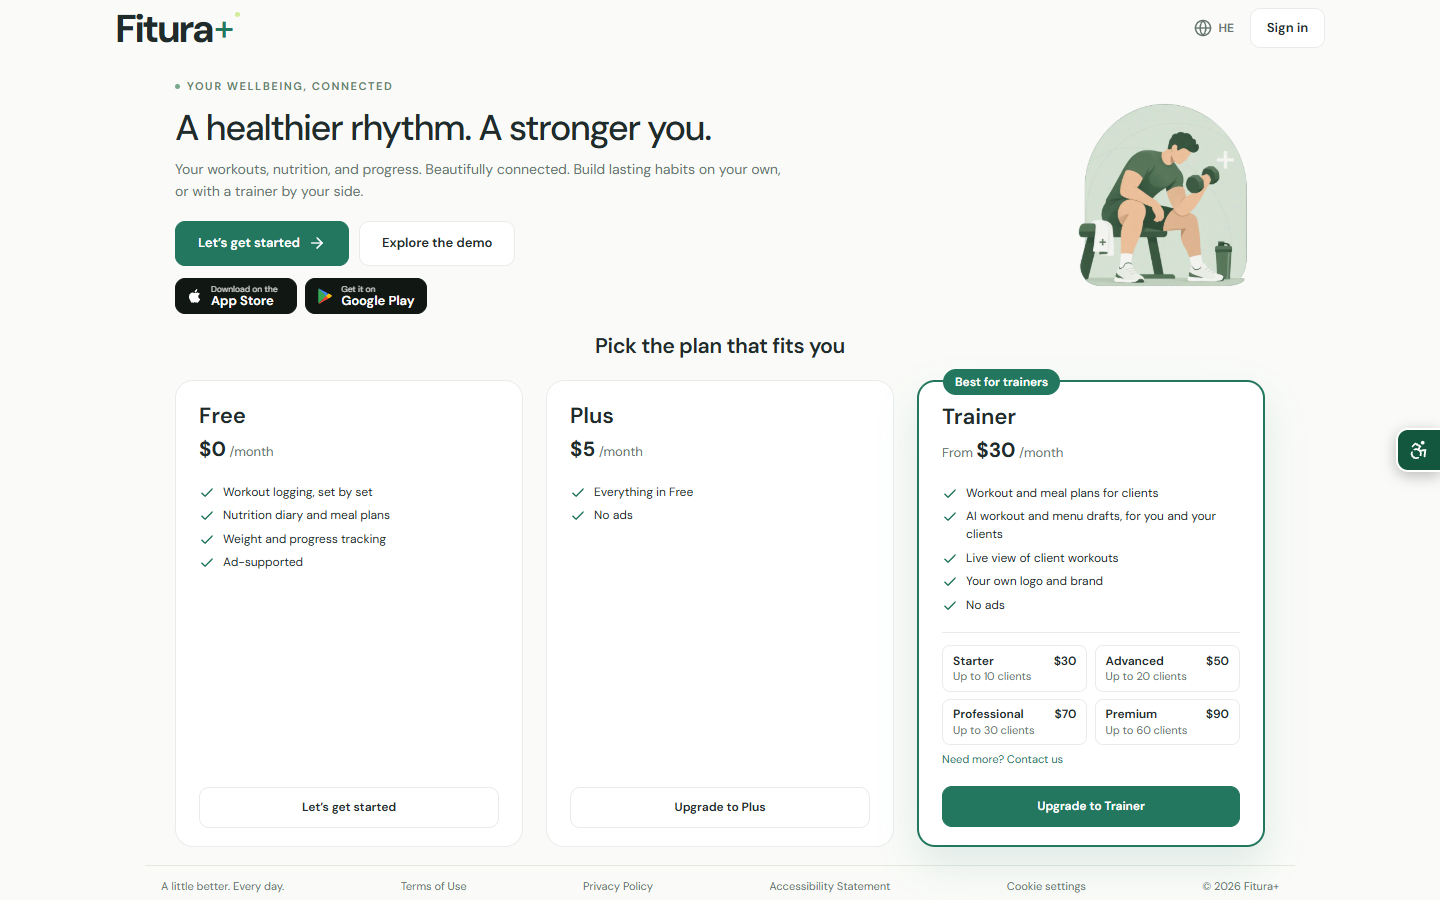
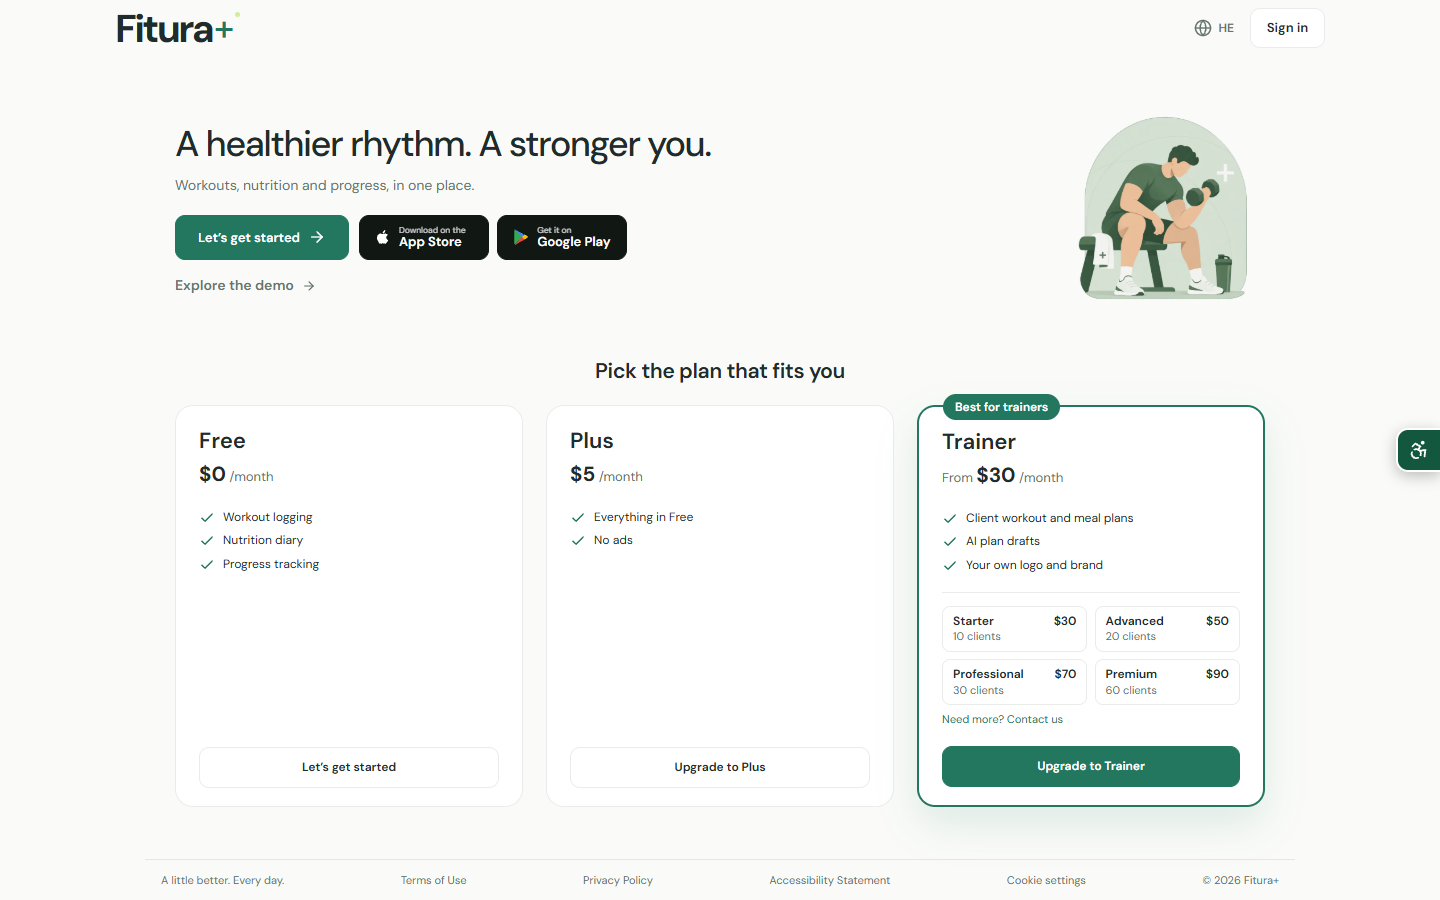
feat: calmer home page and drag-off-edge to hide the accessibility button
- Shorter hero subtitle, no eyebrow badge; main CTA and store badges share one row, demo is a quiet link
- Fewer, shorter plan bullets and coach package labels
- Dragging the accessibility button past the screen edge tucks it into the slim tab

diff --git a/src/lib/i18n.ts b/src/lib/i18n.ts
@@ -1295,8 +1295,8 @@ export const messages = {
   preview: ['Preview', 'תצוגה מקדימה'],
   landingTitle: ['A healthier rhythm.\nA stronger you.', 'קצב בריא יותר.\nאתה, חזק יותר.'],
   landingSub: [
-    'Your workouts, nutrition, and progress. Beautifully connected. Build lasting habits on your own, or with a trainer by your side.',
-    'האימונים, התזונה וההתקדמות שלך. הכול מתחבר. בנו הרגלים שנשארים, באופן עצמאי או עם מאמן לצידכם.',
+    'Workouts, nutrition and progress, in one place.',
+    'אימונים, תזונה והתקדמות, במקום אחד.',
   ],
   login: ['Sign in', 'כניסה'],
   register: ['Create account', 'יצירת חשבון'],
@@ -1315,27 +1315,24 @@ export const messages = {
   coachAdvanced: ['Advanced', 'מתקדם'],
   coachProfessional: ['Professional', 'מקצועי'],
   coachPremium: ['Premium', 'פרימיום'],
-  coachPackageCapacity: ['Up to {count} clients', 'עד {count} לקוחות'],
+  coachPackageCapacity: ['{count} clients', '{count} לקוחות'],
   fromPrice: ['From', 'החל מ־'],
-  coachCustomPackage: ['Need more? Contact us', 'צריכים יותר מזה? צרו איתנו קשר'],
+  coachCustomPackage: ['Need more? Contact us', 'צריכים יותר? דברו איתנו'],
   comingSoon: ['Coming soon', 'בקרוב'],
-  planFree1: ['Workout logging, set by set', 'תיעוד אימונים, סט אחרי סט'],
-  planFree2: ['Nutrition diary and meal plans', 'יומן תזונה ותפריטים'],
-  planFree3: ['Weight and progress tracking', 'מעקב משקל והתקדמות'],
+  planFree1: ['Workout logging', 'תיעוד אימונים'],
+  planFree2: ['Nutrition diary', 'יומן תזונה'],
+  planFree3: ['Progress tracking', 'מעקב התקדמות'],
   planFree4: ['Ad-supported', 'כולל פרסומות'],
   planAiCoached: [
     'AI planning when your trainer is on the Trainer plan',
     'תכנון AI כשהמאמן שלכם במסלול המאמנים',
   ],
-  planPremium1: ['Everything in Free', 'כל מה שבמסלול החינמי'],
+  planPremium1: ['Everything in Free', 'כל מה שבחינם'],
   planPremium2: ['No ads', 'בלי פרסומות'],
   planCoach1: ['Up to 10 clients', 'עד 10 מתאמנים'],
-  planCoach5: [
-    'AI workout and menu drafts, for you and your clients',
-    'טיוטות AI לאימונים ותפריטים, לכם ולמתאמנים',
-  ],
+  planCoach5: ['AI plan drafts', 'טיוטות AI'],
   planCoach6: ['No ads', 'בלי פרסומות'],
-  planCoach2: ['Workout and meal plans for clients', 'תוכניות אימון ותזונה למתאמנים'],
+  planCoach2: ['Client workout and meal plans', 'תוכניות אימון ותזונה'],
   planCoach3: ['Live view of client workouts', 'מעקב חי אחרי האימונים של המתאמנים'],
   planCoach4: ['Your own logo and brand', 'לוגו ומיתוג אישי'],
   password: ['Password', 'סיסמה'],
@@ -1371,7 +1368,6 @@ export const messages = {
   coach: ['I’m a trainer', 'אני מאמן/ת'],
   role: ['How will you use Fitura+?', 'איך תשתמשו ב־Fitura+\u200E\u200E?'],
   backHome: ['Back to home', 'חזרה לבית'],
-  landingBadge: ['YOUR WELLBEING, CONNECTED', 'הבריאות שלך, מחוברת'],
   featureWorkouts: ['Movement with intention', 'תנועה עם כוונה'],
   featureNutrition: ['Nutrition with balance', 'תזונה עם איזון'],
   featureProgress: ['Progress with perspective', 'התקדמות עם פרספקטיבה'],

diff --git a/src/components/public-page-client.tsx b/src/components/public-page-client.tsx
@@ -116,7 +116,7 @@ export function PublicPageClient({
     {
       key: 'free',
       price: 0,
-      points: ['planFree1', 'planFree2', 'planFree3', 'planFree4'],
+      points: ['planFree1', 'planFree2', 'planFree3'],
       cta: 'getStarted',
       href: '/auth',
       featured: false,
@@ -132,7 +132,7 @@ export function PublicPageClient({
     {
       key: 'coachTier',
       price: PLAN_PRICE_USD.COACH,
-      points: ['planCoach2', 'planCoach5', 'planCoach3', 'planCoach4', 'planCoach6'],
+      points: ['planCoach2', 'planCoach5', 'planCoach4'],
       cta: 'upgradeCoach',
       href: '/auth/coach/login?next=/app/billing',
       featured: true,
@@ -381,10 +381,6 @@ export function PublicPageClient({
         <main className="landing-overview">
           <section className="landing-hero">
             <div>
-              <span className="eyebrow">
-                <span className="live-dot" />
-                {t('landingBadge')}
-              </span>
               <h1>{t('landingTitle')}</h1>
               <p>{t('landingSub')}</p>
               <div className="hero-actions">
@@ -393,13 +389,6 @@ export function PublicPageClient({
                     {t('getStarted')}
                     <ArrowRight size={18} />
                   </a>
-                  <button
-                    className="button secondary large"
-                    onClick={demo}
-                    disabled={!ready || busy}
-                  >
-                    {busy ? <Loader2 className="spin" size={18} /> : t('tryDemo')}
-                  </button>
                 </div>
                 {storeLinks.length > 0 && (
                   <div className="store-links">
@@ -450,6 +439,14 @@ export function PublicPageClient({
                   </div>
                 )}
               </div>
+              <button
+                className="text-button hero-demo"
+                onClick={demo}
+                disabled={!ready || busy}
+              >
+                {busy ? <Loader2 className="spin" size={16} /> : t('tryDemo')}
+                {!busy && <ArrowRight size={14} aria-hidden="true" />}
+              </button>
               {error && (
                 <p className="form-error" role="alert">
                   {t(error)}

diff --git a/src/components/accessibility-menu.tsx b/src/components/accessibility-menu.tsx
@@ -38,6 +38,8 @@ import {
 
 /** Pointer travel (px) before a press on the button counts as a drag instead of a click. */
 const DRAG_THRESHOLD = 6;
+/** Dragging the pointer to within this many px of the left or right edge (or past it) tucks the button away. */
+const TUCK_EDGE = 12;
 
 type ToggleKey = 'contrast' | 'links' | 'font' | 'motion' | 'grayscale';
 const toggles: readonly [ToggleKey, string, LucideIcon][] = [
@@ -172,7 +174,8 @@ export function AccessibilityMenu() {
     e.currentTarget.querySelectorAll<HTMLElement>('[role="radio"]')[next]?.focus();
   };
   const StatementArrow = lang === 'he' ? ChevronLeft : ChevronRight;
-  // Drag the button up and down either edge; letting go on the other half switches sides.
+  // Drag the button up and down either edge; letting go on the other half switches sides,
+  // and dragging it out past the edge tucks it away.
   const onPointerDown = (e: ReactPointerEvent<HTMLButtonElement>) => {
     if (e.button !== 0) return;
     suppressClick.current = false;
@@ -188,10 +191,13 @@ export function AccessibilityMenu() {
       d.moved = true;
       setOpen(false);
     }
+    // Pushing it off the side previews the slim tab; pulling it back in restores the button.
+    const offEdge = e.clientX <= TUCK_EDGE || e.clientX >= window.innerWidth - TUCK_EDGE;
     setButton((b) => ({
       ...b,
       side: e.clientX < window.innerWidth / 2 ? 'left' : 'right',
       y: Math.max(0, Math.min(1, e.clientY / window.innerHeight)),
+      hidden: offEdge,
     }));
   };
   const onPointerEnd = (e: ReactPointerEvent<HTMLButtonElement>) => {

diff --git a/src/app/design-system.css b/src/app/design-system.css
@@ -1003,6 +1003,14 @@ html[data-theme='dark'] .food-icon {
   padding-inline-start: 0;
   border-inline-start: 0;
 }
+.landing-overview .hero-demo {
+  margin-top: 10px;
+  font-size: 14px;
+  color: var(--muted);
+}
+.landing-overview .hero-demo:hover:not(:disabled) {
+  color: var(--green);
+}
 .public-site > footer .text-button {
   font-size: inherit;
   font-weight: inherit;
@@ -1077,15 +1085,19 @@ html[data-theme='dark'] .food-icon {
     max-width: 620px;
     margin-bottom: clamp(12px, 2vh, 28px);
   }
-  /* CTAs on one line, store badges quietly on the next. */
+  /* Main CTA and store badges share one row at the same height; the demo is a quiet link below. */
   .landing-overview .hero-actions {
-    flex-direction: column;
-    align-items: flex-start;
-    gap: clamp(10px, 1.4vh, 18px);
+    flex-direction: row;
+    align-items: stretch;
+    gap: 10px;
   }
   .landing-overview .hero-actions .store-links {
     padding-inline-start: 0;
     border-inline-start: 0;
+  }
+  .landing-overview .hero-actions .store-link {
+    min-height: clamp(38px, 5vh, 48px);
+    padding-inline: 14px 16px;
   }
   .landing-overview .landing-hero .button.large {
     min-height: clamp(38px, 5vh, 48px);

diff --git a/README.md b/README.md
@@ -142,7 +142,7 @@ Register a **Trainer** account (or sign in as `coach@nutri.local`):
 
 ### Language, theme and accessibility
 
-Use the globe button for **English / עברית** (the whole layout flips to RTL) and the moon button for dark mode. Both are saved to your account. The accessibility button on the side of every page has switches for text zoom, high contrast, highlighted links, a readable font, reduced motion and grayscale. Drag the button up or down either edge of the screen (or press Alt + arrow keys while it has focus) to move it, and use **Hide button** in the menu to tuck it into a slim tab on the edge; press the tab to bring it back. Its position is remembered in your browser.
+Use the globe button for **English / עברית** (the whole layout flips to RTL) and the moon button for dark mode. Both are saved to your account. The accessibility button on the side of every page has switches for text zoom, high contrast, highlighted links, a readable font, reduced motion and grayscale. Drag the button up or down either edge of the screen (or press Alt + arrow keys while it has focus) to move it, and drag it out past the edge (or use **Hide button** in the menu) to tuck it into a slim tab; press the tab to bring it back. Its position is remembered in your browser.
 
 <p align="center"><img src="docs/images/mobile-hebrew-dark.png" alt="Hebrew, dark mode, phone width" width="300"></p>
 
